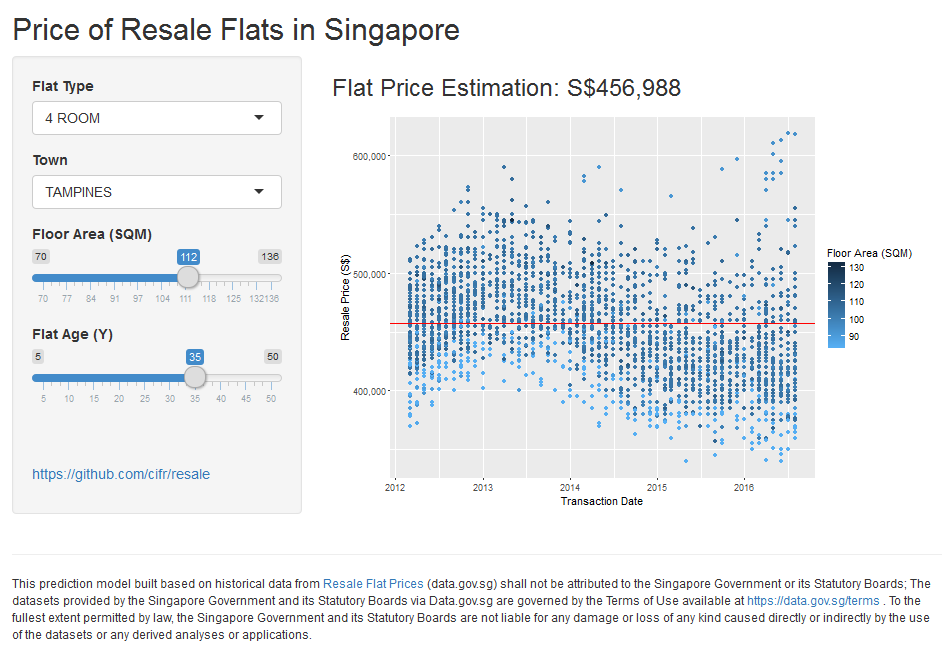
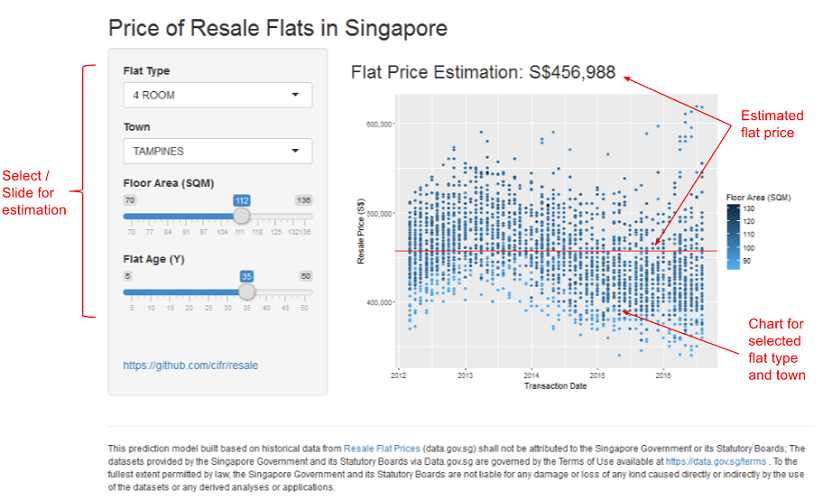
Updated slidify deck.

diff --git a/docs/index.html b/docs/index.html
@@ -52,6 +52,7 @@
 <li>In Singapore, HDB flats are home to over 80% of its resident population.</li>
 <li>This application provides a means to explore the official transaction data,</li>
 <li class='..'>and provide a simple price estimation for a given flat type by towns.</li>
+<li>Historical data price data available at, <a href="https://data.gov.sg/dataset/resale-flat-prices">https://data.gov.sg/dataset/resale-flat-prices</a>.</li>
 </ul>
 
   </article>
@@ -60,14 +61,31 @@
 
 <slide class="" id="slide-2" style="background:;">
   <hgroup>
-    <h2>The Prediction Model //TODO</h2>
+    <h2>The Prediction Model</h2>
   </hgroup>
   <article data-timings="">
     <ul>
-<li>Describe data source</li>
-<li>Describe linear model</li>
-<li>show one prediction.</li>
+<li>Linear regression model considering  <em>flat type</em>, <em>town</em>, <em>floor area</em>
+and the <em>age of the flat</em>.</li>
+<li>Example resale flat price estimation: </li>
 </ul>
+
+<pre><code class="r">source(&quot;../resale.R&quot;)
+x &lt;- data.frame(flat_type=c(&quot;4 ROOM&quot;), town=c(&quot;TAMPINES&quot;),
+                floor_area_sqm=c(sample(70:130, 1)), age_year=c(10))
+print(x)
+</code></pre>
+
+<pre><code>##   flat_type     town floor_area_sqm age_year
+## 1    4 ROOM TAMPINES             76       10
+</code></pre>
+
+<pre><code class="r">predict(ddp.lm0, x)
+</code></pre>
+
+<pre><code>##        1 
+## 454025.4
+</code></pre>
 
   </article>
   <!-- Presenter Notes -->
@@ -112,7 +130,7 @@
     </li>
     <li>
       <a href="#" target="_self" rel='tooltip' 
-        data-slide=2 title='The Prediction Model //TODO'>
+        data-slide=2 title='The Prediction Model'>
          2
       </a>
     </li>
